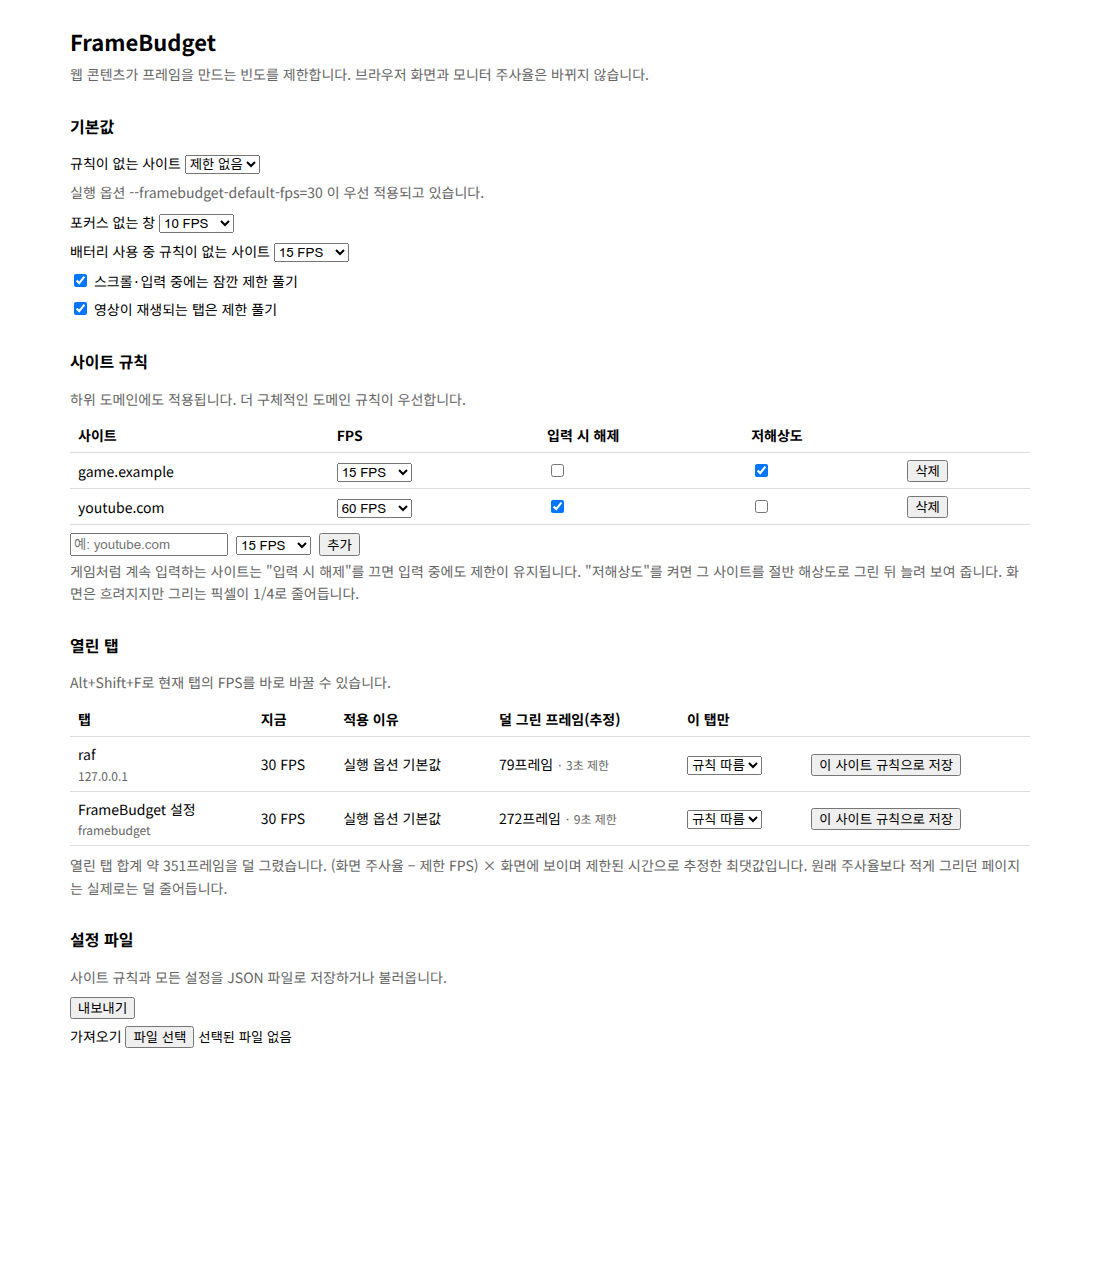
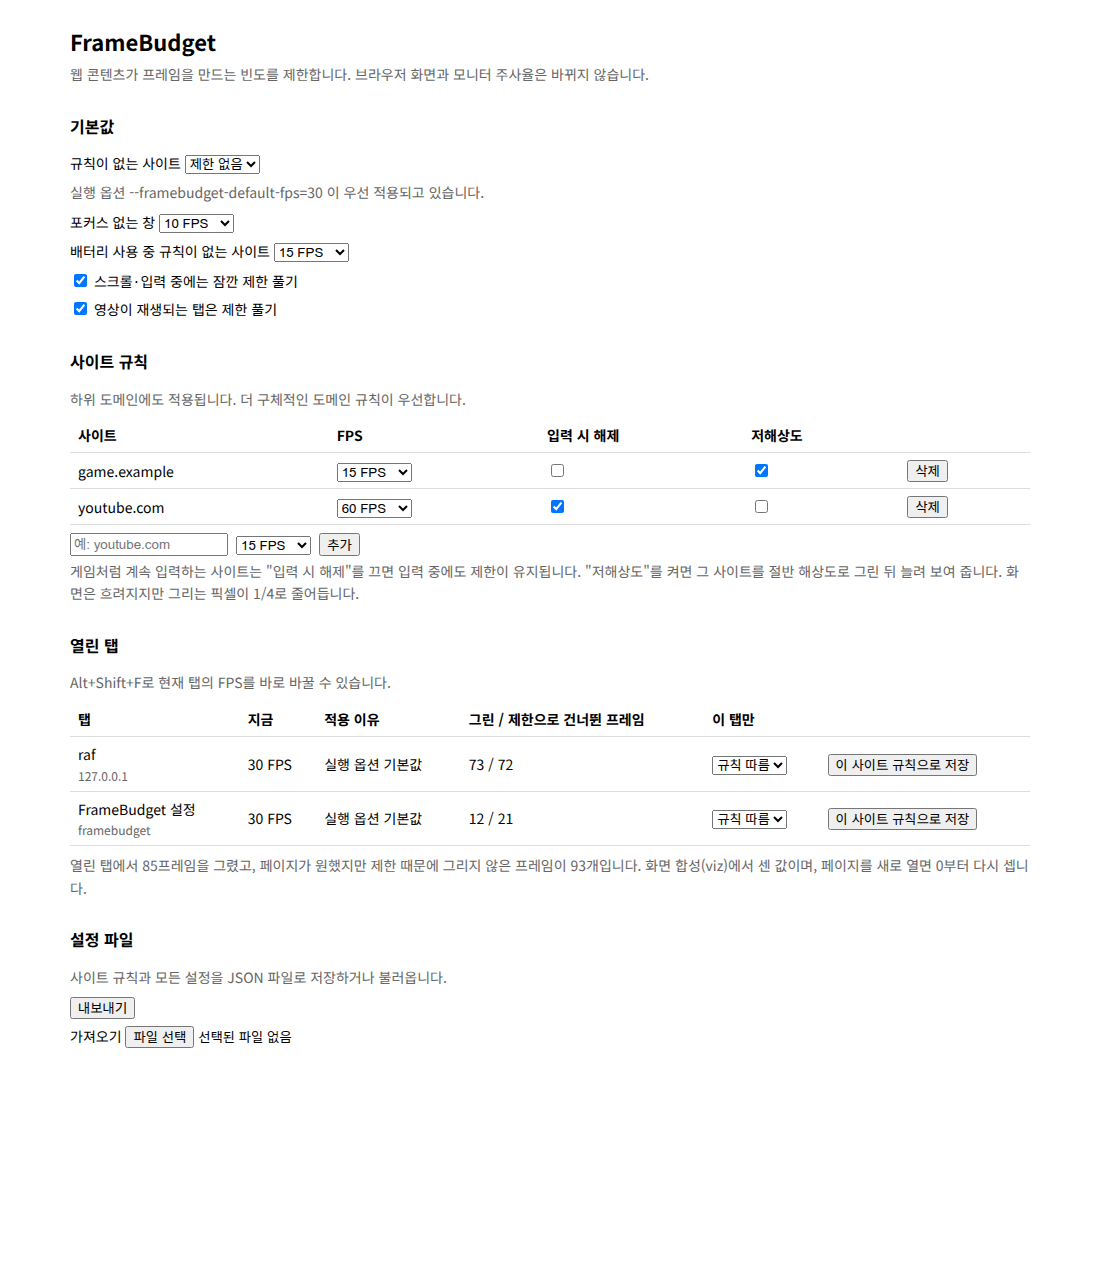
Document measured frame counts and recommendations

diff --git a/chromium/README.md b/chromium/README.md
@@ -27,13 +27,14 @@ FrameBudget 기능은 Chromium 원본 소스에 적용하는 패치로 제공합
 | 0014 | chrome: 영상이 재생되는 탭은 제한 풀기 (선택) |
 | 0015 | chrome: 툴바 FPS 버튼, FrameBudget 명령을 액션 표에 정식 등록 (0008의 우회 코드 제거) |
 | 0016 | chrome: 탭별 절약량 추정 표시, 설정 내보내기·가져오기 |
+| 0017 | viz·content·chrome: 그린 프레임과 제한으로 건너뛴 프레임을 실제로 세기(0016의 추정 대체), 제한 추천 |
 
 0004, 0005, 0008, 0010, 0011은 빌드와 시험에서 나온 오류를 고친 기록입니다. 기능 패치에 합치지 않고 따로 남겼습니다.
 
 - `GURL::host()`가 `std::string_view`를 돌려주는데 `std::string`으로 암시 변환하고 있었습니다.
 - `BrowserContext`가 전방 선언만 되어 있어서 `UserPrefs::Get()`에 넘길 수 없었습니다.
 
-16개 패치를 `156.0.8078.48`에 순서대로 적용한 결과가 실제로 빌드한 소스 트리와 같은 것을 git 트리 해시로 확인했습니다.
+17개 패치를 `156.0.8078.48`에 순서대로 적용한 결과가 실제로 빌드한 소스 트리와 같은 것을 git 트리 해시로 확인했습니다.
 
 ## 빌드 방법
 
@@ -95,7 +96,8 @@ out/Default/chrome
 
   ![툴바의 FrameBudget 버튼](../docs/images/toolbar-button.png)
 
-- **절약량 표시:** `chrome://framebudget`의 열린 탭 표에 탭마다 덜 그린 프레임 수와 제한된 시간이 나옵니다. (화면 주사율 − 제한 FPS) × 화면에 보이며 제한된 시간으로 추정한 최댓값입니다. 원래 주사율보다 적게 그리던 페이지는 실제로는 덜 줄어듭니다.
+- **프레임 측정:** `chrome://framebudget`의 열린 탭 표에 탭마다 "그린 프레임 / 제한으로 건너뛴 프레임"이 나옵니다. 화면 합성(viz)이 프레임 싱크마다 직접 센 값입니다. 건너뛴 프레임은 페이지가 그리려고 요청했는데 제한 때문에 보내지 않은 것만 셉니다. 그래서 멈춰 있는 페이지는 늘지 않습니다. 페이지를 새로 열면 0부터 다시 셉니다. (0016의 추정값은 0017에서 이 측정값으로 바꿨습니다.)
+- **제한 추천:** 규칙 없이 초당 30프레임 이상을 3초 넘게 그리는 탭이 있으면, 설정 화면 위쪽에 "30FPS로 제한", "15FPS로 제한" 버튼이 있는 추천이 뜹니다.
 - **설정 파일:** 사이트 규칙과 모든 설정을 JSON으로 내보내고 불러옵니다. 불러올 때 FPS는 0~240으로 자르고, 주소는 화면에서 고칠 때와 같이 정리하며, 모르는 키는 무시합니다.
 - **영상 재생 중 해제:** 켜 두면 영상이 재생되는 동안 그 탭의 제한을 풉니다. 기본값을 낮게 잡아도 페이지에 끼워 넣은 영상이 끊기지 않습니다. `chrome://framebudget`의 "영상이 재생되는 탭은 제한 풀기"나 `--framebudget-lift-during-video`로 켭니다. Alt+Shift+F로 고정한 탭은 그대로 둡니다. 가상 화면에서 15FPS 규칙 페이지의 영상을 재생하면 제한이 풀리고(30, 37FPS. 가상 화면은 영상 재생 자체가 30FPS 안팎이 한계입니다), 멈추면 다시 15FPS가 되는 것을 확인했습니다.
 - **저해상도 모드:** 지정한 사이트를 devicePixelRatio 0.5로 그리고, 컴포지터가 원래 크기로 늘려 보여 줍니다. 화면은 흐려지지만 캔버스를 devicePixelRatio로 잡는 페이지는 그리는 픽셀이 1/4이 됩니다. `chrome://framebudget` 사이트 규칙의 "저해상도"나 `--framebudget-low-res=game.example`로 켭니다.
@@ -188,12 +190,13 @@ DISPLAY=:99 node chromium/tests/window_check.mjs out/Default/chrome --no-sandbox
 | 창 두 개 중 하나를 클릭 | 클릭한 창은 원래 값, 다른 창은 비활성 창 FPS |
 | 저해상도 사이트와 다른 사이트를 오감 | 저해상도 사이트만 devicePixelRatio 0.5 |
 | 영상 재생 중 해제를 켜고 영상 재생·정지 | 재생 중에는 해제, 멈추면 다시 제한 |
-| 제한된 탭의 절약량 | 덜 그린 프레임이 0보다 큼 |
+| 제한된 탭의 프레임 측정 | 그린 프레임과 제한으로 건너뛴 프레임이 모두 0보다 큼 |
+| 규칙 없이 계속 그리는 탭 | 3초 뒤 추천이 뜨고, 추천 버튼으로 바로 제한됨 |
 | 설정 내보내기 → 가져오기 | 값이 그대로 저장되고, 지저분한 주소는 정리되어 들어감 |
 
 2026-11-17 결과:
 
-- **가상 화면(Xvfb, 60Hz):** 19개 모두 통과. 2026-11-19 단축키·배터리·비활성 창·저해상도 시험을 더해 28개, 2026-11-21 영상 재생 시험을 더해 30개, 2026-11-23 절약량·내보내기·가져오기 시험을 더해 33개 모두 통과. 툴바 버튼은 가상 화면에서 눌러 15FPS 탭이 60FPS로 바뀌는 것을 따로 확인
+- **가상 화면(Xvfb, 60Hz):** 19개 모두 통과. 2026-11-19 단축키·배터리·비활성 창·저해상도 시험을 더해 28개, 2026-11-21 영상 재생 시험을 더해 30개, 2026-11-23 절약량·내보내기·가져오기 시험을 더해 33개, 2026-11-24 프레임 측정·추천 시험으로 바꿔 34개 모두 통과. 툴바 버튼은 가상 화면에서 눌러 15FPS 탭이 60FPS로 바뀌는 것을 따로 확인
 - **실제 화면(100Hz 모니터, NVIDIA GPU, `FB_NO_KEYS=1`):** 14개 모두 통과 (2026-11-18). 2026-11-21 배터리·저해상도·영상 재생 시험을 더해 20개 모두 통과(영상 재생 중 100, 85FPS로 해제, 멈춘 뒤 14FPS). 비활성 창 시험을 클릭 대신 `Target.activateTarget`으로 바꿔 실제 화면에서도 돌렸고, 24개 모두 통과(활성 창 100FPS, 비활성 창 10FPS)
 - 판정 기준은 "상한을 넘지 않고, 상한의 75% 이상"입니다. 화면 주기 때문에 상한보다 낮게 나올 수 있기 때문입니다.
 

diff --git a/README.md b/README.md
@@ -20,7 +20,7 @@ FrameBudget은 **웹 콘텐츠가 프레임을 만드는 빈도 자체를 사이
 - **입력 중에는 잠시 해제합니다:** 스크롤, 타이핑, 클릭 중에는 제한을 풀고, 입력이 멈추면 다시 적용하여 사용성을 유지합니다. 게임처럼 계속 입력하는 사이트는 사이트별로 이 해제를 끌 수 있습니다.
 - **상황에 따라 더 낮춥니다:** 포커스 없는 창이나 배터리로 동작할 때 쓸 FPS를 따로 정할 수 있습니다.
 - **영상은 끊기지 않게:** 켜 두면 영상이 재생되는 탭은 제한을 풉니다.
-- **눈에 보이게:** 툴바 버튼으로 FPS를 바꾸고, 설정 화면에서 탭마다 덜 그린 프레임 수(추정)를 봅니다. 설정은 JSON 파일로 내보내고 불러올 수 있습니다.
+- **눈에 보이게:** 툴바 버튼으로 FPS를 바꾸고, 설정 화면에서 탭마다 그린 프레임과 제한으로 건너뛴 프레임(실제 측정)을 보고, 계속 많이 그리는 탭은 제한을 추천받습니다. 설정은 JSON 파일로 내보내고 불러올 수 있습니다.
 - **저해상도 모드:** 지정한 사이트를 절반 해상도로 그려 그리는 픽셀을 1/4로 줄입니다.
 - **서버에 따로 알리지 않습니다:** 제한 설정을 웹사이트에 전송하지 않으며, 페이지는 화면 갱신이 느린 환경에서 실행되는 것처럼 동작합니다. 단, 페이지가 프레임 간격을 직접 측정하여 이를 알아채는 것까지 막을 수는 없습니다.
 
